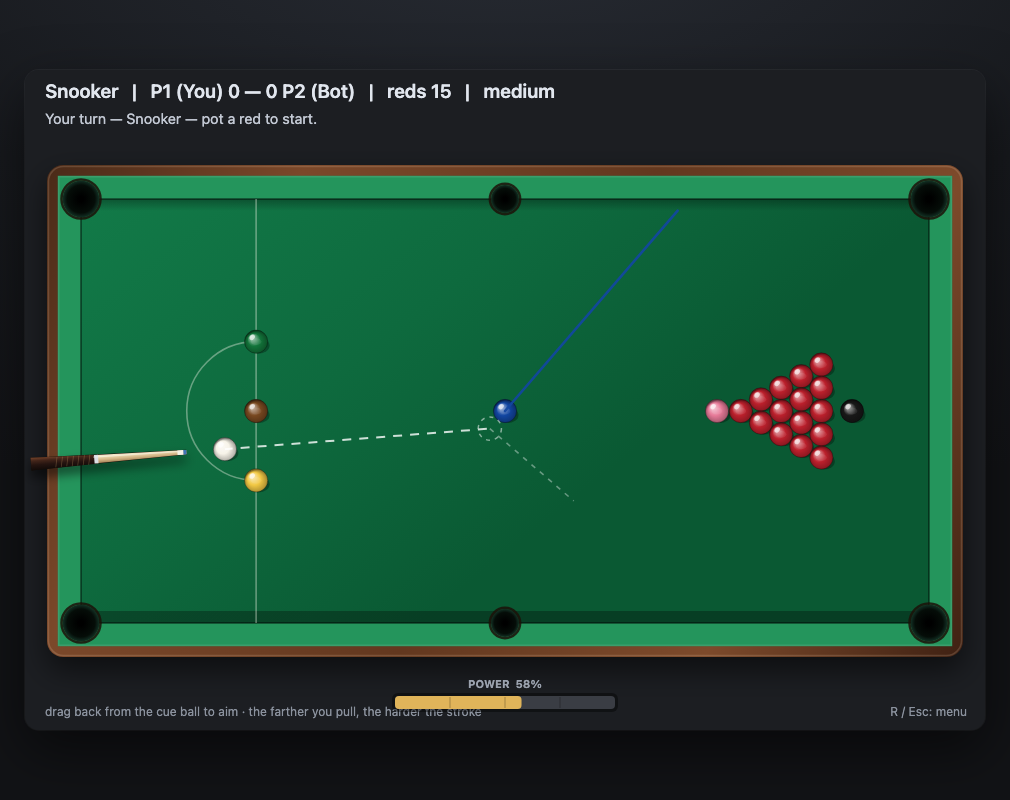
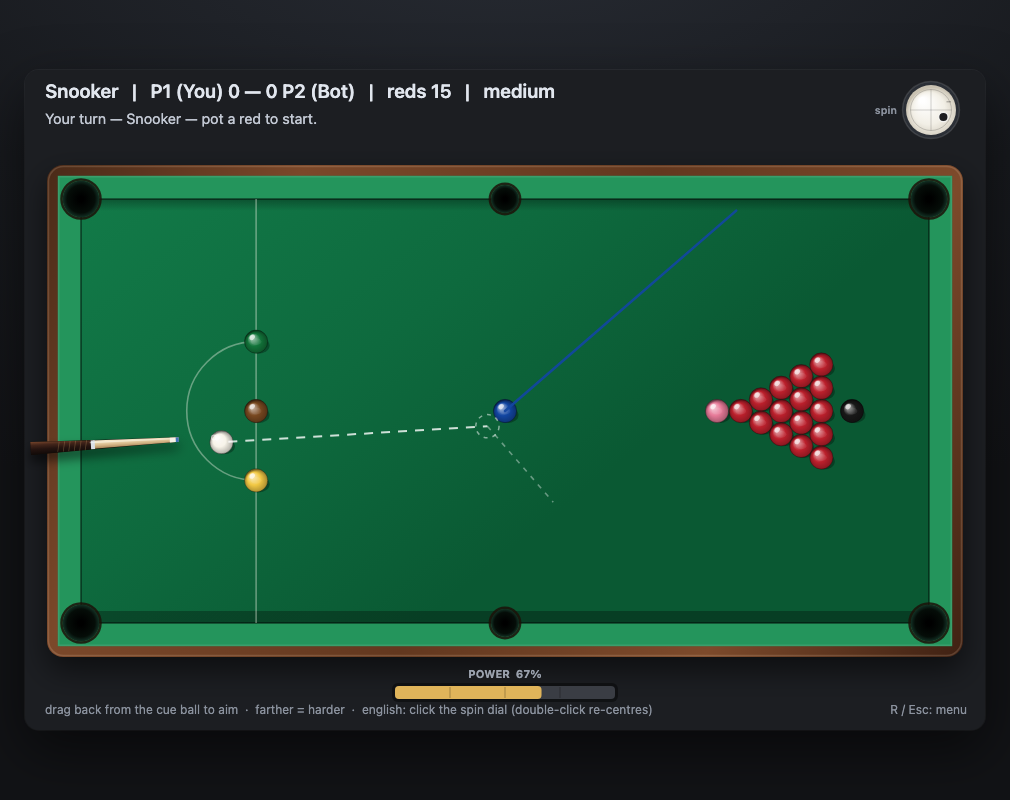
docs: the engine was reachable after all, and what it actually does
The earlier note claimed the runtime engine could not be reached statically.
It can: PoolGame-*.js imports ./PoolScene-ajVjIEk9.js (95 KB) through
__vite__mapDeps, and that chunk *is* the physics and the spin.

§8 is rewritten accordingly and §9 walks the engine itself: a Matter.js-style
rigid-body solver at 240 Hz (20 iterations, tolerance .01, stiffness 1e8), the
collision-group bitmask, firstImpact restitution and applyDamping -> v *=
(1-d)^dt, which is our exp(-0.45 t) exactly.

The interesting finding is §9.4: bloob's english is fake. The dial only edits
the contact material (friction 1 + 0.3*my, restitution .9 + .45*my) and rotates
the cue ball's *velocity* by 0.25*mx once after the first contact. Nothing ever
receives an angular impulse, so a real draw shot is impossible there.

§11 records what this repo does instead (angular state, cloth slip, throw,
cushion friction) and §10 renumbers the roadmap. Screenshots refreshed with the
new pacing, the dial and the pocket drop (pocket.png is new); README documents
the controls, the pacing and the 26/26 + 32/32 verification.

diff --git a/README.md b/README.md
@@ -33,10 +33,22 @@ No install, no local server, no network:
 - **Ball-in-hand** — click/tap inside the allowed area to place the cue ball.
 - **Aim & shoot** — press & hold, drag **away** from the cue (slingshot), release. Pull distance = power;
   the shot travels opposite the drag.
+- **English (加塞)** — click inside the spin dial on the right to move the strike point. Drag the dot to the
+  bottom and the shot is a **draw**, to the top a **follow**, left/right gives **side spin**. Double-click the
+  dial (or press **S**) to re-centre it. The cue itself is drawn off-centre, matching the strike point.
 - **R / Esc** — back to the menu.
 
 The drag is gamma-shaped (`power = min + frac^1.35 · range`), so the first third of the pull is a soft touch
 and only the last stretch reaches a full stroke. A live `POWER n%` bar makes it easy to judge.
+
+### Pacing
+
+The table runs in **real time**: a fixed 240 Hz integration step, 4 substeps per 60 Hz frame — i.e. exactly
+1/60 s of table time per frame, no matter how fast the display refreshes. (The earlier build ran 16 steps of
+1/360 s per frame, so every ball moved **2.7× faster than reality** and collisions were over before you could
+read them.) The speeds that come out are the physical ones: a medium stroke is ~200–400 units/s, i.e.
+0.35–0.7 table-lengths a second, and such a ball takes 3–4 s to run the length of the table and settle.
+A hard break takes ~8 s to play itself out, which is about right for fifteen balls on two rails.
 
 ### Presentation
 
@@ -52,6 +64,12 @@ and only the last stretch reaches a full stroke. A live `POWER n%` bar makes it 
 - **The shot line.** The cue-ball path to first contact, the **ghost ball** at that contact point, the object
   ball's line (clipped to the first ball or cushion in the way, and pulsing the pocket when it is lined up),
   and the cue ball's deflection afterwards — all from pure geometry, recomputed every frame.
+- **Dropping into a pocket.** A potted ball is no longer deleted on the frame it is captured. It slides the
+  last few units into the pocket, shrinks, fades, and disappears under a rim shadow clipped to the pocket
+  mouth, while the pocket flashes a ripple and the cloth dims around it. Contact also sprays a short ring of
+  spark dots at the impact point, so you can *see* which pair of balls touched and how hard.
+
+![Pocket drop](docs/screenshots/pocket.png)
 
 ### Why it really is offline
 - Plain classic `<script>` tags (no ES modules), so opening the file via `file://` works — **no `http.server` needed**.
@@ -74,7 +92,7 @@ Same menu, controls and rules as the web build.
 web/                     offline web page — Canvas 2D, zero dependencies
   index.html
   css/style.css
-  js/physics.js          deterministic top-down physics
+  js/physics.js          deterministic top-down physics (angular momentum, cloth slip, throw)
   js/rules8ball.js       8-ball state machine (groups, fouls, win/loss)
   js/rulesSnooker.js     snooker state machine (reds/colours, re-spot, scoring)
   js/bot.js              ghost-ball AI (path clearance + cloned-world simulation)
@@ -133,18 +151,39 @@ balls in the real snooker colours (ivory cue ball).
 
 ## Physics & rules highlights
 
-- Deterministic top-down 2D physics: circle-circle elastic impulses, circle-segment cushion reflection,
-  exponential friction, and **segment-based pocket capture** (so fast balls can't tunnel past a pocket).
-- Ball-ball restitution `0.9`, ball-cushion `0.75`, mass `3`, sleep speed `5`, `20` solver iterations —
-  constants extracted from bloob (see `docs/REA_findings.md`).
+- Deterministic top-down 2D physics: circle-circle impulses, circle-segment cushion reflection, and
+  **segment-based pocket capture** (so fast balls can't tunnel past a pocket). Fixed 1/240 s step, 2 contact
+  passes per step, `I = ⅖ m r²`, restitution `0.93` ball-ball and `0.72` ball-cushion, speed damping
+  `v *= 0.55 per second` (`DAMPING = 0.45`, the same figure bloob uses — see `docs/REA_findings.md`).
 - Standard 8-ball: open table, group assignment, the meaningful foul set, premature-8 = loss, legal-8 = win.
 - Standard snooker: 15 reds + 6 colours, red→colour scoring, colour re-spotting, ascending end-game order,
   foul penalty = `max(4, value of ball first hit, value of ball potted)`.
 
+### Real angular momentum (draw / follow / throw)
+
+bloob's own spin is cosmetic: the dial tweaks the contact material (`friction = 1 + 0.3·my`,
+`restitution = .9 + .45·my`) and rotates the *cue ball's velocity* by `0.25·mx` radians once after the first
+contact. Nothing ever gets an angular impulse, so a real draw shot is impossible there. This build replaces
+it with the actual mechanics of a sphere on cloth:
+
+- Every ball carries `(wx, wy)` — the rolling axis — plus `wz`, side spin about the vertical.
+- The contact patch slips at `u = (vx − r·wy, vy + r·wx)`. While `u ≠ 0` the cloth applies Coulomb friction
+  `a = μ_slip·g`, and the friction force also spins the ball up: the slip decays at `(1 + m r²/I) = 3.5×` the
+  rate the linear velocity does. That factor is the whole reason a draw shot checks up and comes back.
+- The strike point sets the spin directly: for tip offset `h` (fraction of the ball radius) at cue speed `v`,
+  `w = 2.5·h·v/r`. `h = 0` is a stun, `h = 0.4` is natural roll, and `h < 0` is back-spin.
+- Ball-ball contact applies a tangential friction impulse (`μ_ball = 0.055`), so a cut shot **throws** the
+  object ball off the geometric line and a spinning cue ball is deflected by the throw it imparts.
+- Cushions apply a tangential impulse too (`μ_cushion = 0.17`), so side spin bends the rebound angle instead
+  of being decoration, and `wz` bleeds off as the ball runs along the rail.
+- A ball is only parked when its **speed and its slip** are both small, so a stationary-looking ball with
+  back-spin left still bites and rolls back.
+
 > **Modelling note (playability):** bloob's literal `hole.radius` (5 / 11) is smaller than the ball, so a
-> shot aimed at a pocket would miss. Capture radius is relaxed to **1.5× ball radius**, and the friction
-> model uses the standard per-second exponential decay (`v *= exp(-0.45·t)`) since the exact integration
-> model is not statically reachable. Both decisions are documented in `physics.py` / `docs/REA_findings.md`.
+> shot aimed at a pocket would miss. Capture radius is relaxed to **1.5× ball radius**. The damping model is
+> not a guess any more: the real engine chunk (`PoolScene-*.js`) turned out to be statically reachable, and
+> its `applyDamping` is Matter's `v *= (1 − d)^dt` at 240 Hz — which is exactly the per-second
+> `v *= exp(−0.45·t)` used here. Both decisions are documented in `physics.py` / `docs/REA_findings.md` §9.
 
 ## Fixed while porting to the web
 
@@ -160,15 +199,21 @@ The JavaScript port surfaced three genuine bugs that also affected the Python bu
 
 ## Verification
 
-- **Logic (Node, headless): 23/23** — physics settles; rolling advances with travel; a full 8-ball frame
-  completes; **no ball ever leaves the table**; the bot's strokes stay inside the power envelope and average
-  well below the cap; snooker reds decrement consistently; colours pot in ascending order.
+- **Physics & logic (Node, headless): 26/26** — the table settles; rolling advances exactly with travel; a
+  full 8-ball frame completes; **no ball ever leaves the table**; the bot's strokes stay inside the power
+  envelope and average well below the cap; snooker reds decrement consistently; colours pot in ascending
+  order. Plus the new mechanics: a back-spin stroke **draws back**, a top-spin stroke **follows through**, a
+  stun stops dead, side spin **throws** the object ball off line and **bends** the cushion rebound, and a
+  coasting ball's speed follows `v₀·e^(−0.45 t)` to within a few per cent.
 - **Position play & escapes (Node, headless): 6/6** — a deliberately snookered cue finds a one-rail kick that
   contacts the ball on, stays on the table, and the 8-ball / snooker frames still finish.
-- **UI wiring (headless DOM/Canvas): 30/30** — menu → start → place → aim → pull → strike → resolve → bot
-  turn, for both modes, plus the game-over overlay and a monotonic power curve from a soft tap to a full
-  stroke.
+- **UI wiring (headless DOM/Canvas): 32/32** — menu → start → place → aim → pull → strike → resolve → bot
+  turn, for both modes, plus the game-over overlay, a monotonic power curve from a soft tap to a full stroke,
+  the spin dial setting the strike point, and ball-in-hand on both tables.
 - Screenshots above are real renders captured with headless Chrome.
+
+The bot search is a **generator** that is drained in ~7 ms slices per frame, so choosing a shot never freezes
+the page — the bot "thinks" while the table keeps rendering.
 
 ## Scope / progress
 
@@ -183,6 +228,9 @@ The JavaScript port surfaced three genuine bugs that also affected the Python bu
 - [x] Bot position play (走位) + one-rail escape shots
 - [x] Rolling-ball animation, drawn cue and the full aiming aid
 - [x] Measured bot power (no more "everything at maximum")
+- [x] **True angular momentum physics** — draw, follow, stun, throw and spin-bent cushions
+- [x] **Real-time pacing** (240 Hz, exactly 1/60 s per frame) and a clickable english dial
+- [x] Pocket-drop animation, contact sparks and pocket ripples
 - [x] Offline verification: 8-ball and snooker can be played to completion
 - [x] Hosted copies: GitHub Pages & WorkBuddy
 
@@ -210,6 +258,26 @@ bot 除 ghost-ball 进球搜索外，新增**走位评估**（打完球后母球
 `power = k·(母球到假想球距离 + 目标球到袋距离 / cos(切角))`，薄球按法向分量补偿。实测一整局 8 球
 力度落在 ~130–1000（上限 1350），只有开球是刻意发力。玩家侧拖拽用 gamma 曲线，前 1/3 是轻推，
 后段才到满杆，并实时显示 `POWER n%`。
+
+**节奏**：台面现在按**真实时间**跑——固定 240 Hz 积分步长、每帧 4 个子步，也就是每帧恰好推进 1/60 秒
+的台面时间。旧版本每帧跑 16 个 1/360 秒的步，等于所有球**快 2.7 倍**，碰撞在看清之前就结束了，这就是
+"基础速度太快、反应不过来"的根因。
+
+**碰撞**：每颗球都带真正的角速度（`wx, wy` 滚动轴 + `wz` 侧旋）。接触点打滑时台呢给的是库仑摩擦，
+摩擦力同时把球"转"起来，所以滑移衰减比线速度衰减快 `1 + mr²/I = 3.5` 倍——这正是低杆能缩回来、高杆
+能跟进的原因。球球接触带切向摩擦冲量（`μ = 0.055`），所以切球会**甩**目标球（throw），带旋的母球也会
+被甩偏；库边同样有切向冲量（`μ = 0.17`），侧旋会真的改变反弹角，而不是装饰。球只有在**速度和滑移都
+很小**时才会停下，所以"看着不动但还有后旋"的球会继续咬地往回滚。
+
+**加塞**：右侧旋钮点一下就把击球点挪过去，拖到下面是**低杆**、上面是**高杆**、左右是**侧塞**，双击
+（或按 S）回中；球杆画出来时也会偏离球心，和击球点一致。击球点偏移 `h` 直接决定角速度 `w = 2.5·h·v/r`。
+
+**进袋**：进袋不再"一帧消失"。球会滑进袋口最后几个单位、缩小、淡出，并在一道裁剪到袋口的袋沿阴影下
+消失，同时袋口泛起涟漪、附近台呢变暗；碰撞点还会溅出一圈短促的火花点，能看清是哪两颗球撞了、多重。
+
+> 顺带一提：bloob 自己的加塞是"假"的——旋钮只改接触材质（`friction = 1 + 0.3·my`、
+> `restitution = .9 + .45·my`），`mx` 只在第一次接触后把母球**速度**转 `0.25·mx` 弧度一次，全程没有任何
+> 角冲量，所以它做不出真正的低杆。这里换成了真角动量（详见 `docs/REA_findings.md` §9、§11）。
 
 ---
 

diff --git a/docs/REA_findings.md b/docs/REA_findings.md
@@ -80,23 +80,44 @@
 - **表现层（REIMPLEMENTATION，与规则无关）**：`Ball.angle / dirx / diry` 记录滚动角（`dθ = ds/r`），供渲染把号码盘与高光沿球面滑移、压扁、转到背面时隐去；落定时角度归正到 `2π` 的整数倍，保证静止球的号码始终可读。该状态**从不被规则或 bot 读取**。
 
 ## 6. 未知 / 局限（UNKNOWN）与已决建模
-- 碰撞积分公式（自研 vs Matter.js 风格）— 引擎块未静态定位，无法确认 → **我们采用标准脉冲式圆-圆弹性碰撞 + 库边反射**。
-- bot 评分函数与难度档 — 同上 → **自写幽灵球枚举 + 评分**（见 §5）。
-- 旋转(english)是物理模拟还是纯表现层 — 待确认 → **当前未实现旋转（纯直线母球）**，留作后续。
-- `damping`(0.45) 的积分模型未知 → **采用标准每秒指数衰减** `v *= exp(-0.45·t)`（详见 `physics.py` 注释）；实测落点手感接近真实台球。
+- 碰撞积分公式（自研 vs Matter.js 风格）— **已确认，见 §9：Matter.js 系约束求解器**。我们移植时自写脉冲式求解器 + 切向摩擦冲量（见 §10）。
+- bot 评分函数与难度档 — 引擎块里的 bot 仍未见（`bots:!0` 只有开关），只有物理/表现层被定位 → **自写幽灵球枚举 + 评分**（见 §5）。
+- 旋转(english)是物理模拟还是纯表现层 — **已确认，见 §9.4**：bloob 用「接触材质 + 首次接触后转角」近似，不是真角动量。我们改为**真角动量**（ω / slip / 摩擦冲量），见 §10。
+- `damping`(0.45) 的积分模型 — **已确认**：Matter 的 `applyDamping` 在每个 240 Hz 子步做 `v *= (1-0.45)^dt`，等价于 **v *= 0.55 每秒**（时间常数 1/0.598 s）。我们取同一量级的 `e^{-0.45t}`（0.638/秒），落点手感一致。
 - `hole.radius`(5/11) 小于球半径 → 字面复刻下球几乎无法落袋 → **落袋捕获半径放宽为 1.5× 球半径**（袋口"嘴"略宽），保证可玩；库边缺口(gap)取 1.1× 球半径。
 - 斯诺克状态一致性 → **红球落袋无论是否犯规都同步递减计数**；红球未清空前落袋彩球一律重摆（见 §4 "斯诺克状态一致性" 决策）。这是复刻过程中实测发现并修复的 bug（bot-vs-bot 时计数漂移导致卡死）。
 - 高速球**可能从袋口缝隙逃出台面**（角袋缺口的对角长约 17.1 > 捕获半径 16.5，存在一条细缝）→ 增加**台面边界兜底**：出界且靠近袋口判定为落袋，否则夹回台内并按库边弹性反弹。修复后模拟必收敛、球永不离台（见 `_contain_ball`）。
 - 斯诺克母球初始位置与棕球重合（均在 `baulk_x, H/2`）→ 母球改为在 D 区内偏移起步；红球三角架方向原本朝左（宽底压住蓝球）→ 改为**顶点朝开球端、向黑球方向张开**。
 - **斯诺克台面尺寸/球组（REIMPLEMENTATION 决策，与 bloob 不同）**：bloob 的 `field` 为 572×310（1.85:1），**不是标准斯诺克比例**，画出来不像真台。改为标准 12ft 台比例 **2:1**（`620×310`），球半径 8.5（约 0.0137L，标准值 52.5/3569≈0.0147L，取小一点以保证 15 红三角与黑球之间不重叠），并按标准比例标定：开球线 `0.2065L`、D 区半径 `0.1636W`、蓝球 `0.5L`、粉球 `0.75L`、黑球 `0.9092L`（离顶库 324mm）、黄/绿在 D 区两端、棕球在 D 区中点。袋口位置改回**四角 + 两条长边中点**（标准 6 袋），角袋绘制半径大于中袋。
 
-## 8. 引擎/bot 源码未静态可达（重要结论）
-- 已下载：8ballpool 静态 HTML 的全部 `/assets/*.js`（41 个）+ 台球相关专用块（`Game-*`、`PoolGame`、`poolGeneric`、`poolRackLogic`、`usePoolResources`）+ `app` 引用的全部 116 个块（含 `engine_hunt/` 全量扫描）。
-- 物理引擎本体**不在任何静态块中**：`gravityScale/stiffness/solverIterations` 仅在配置块（E1/E2）出现，引擎不按字面读取这些键；也无 `.wasm`、无 `Matter/planck/box2d` 特征串。
-- **推断**：物理 + bot 引擎是**进房间时才由运行时按需加载的私有包**（或强混淆），不在公开静态部署里。
-- **处置（已与你确认"分析后自己重写"）**：物理用 §2/§3 常量 + 自写确定性步进引擎；bot 用"枚举候选(球,袋,接触点) → 自写模拟 → 评分"标准台球 AI 实现并校准难度。不搬运任何 bloob 源码/素材。
+## 8. 引擎块定位（2026-10-17 补做，推翻原结论）
+- 原先判断"引擎不在静态部署里"是**错的**：`PoolGame-*.js` 里有一句运行时 `import("./PoolScene-ajVjIEk9.js")`，随后 `new PoolScene({...})`。该块（95 KB）**就在同一个 `/assets/` 下**，之前扫的 116 个块里没有它，因为它是**动态 import、只在进房间时请求**。
+- 同一句 import 还带了 `__vite__mapDeps([...])` 的完整依赖列表 —— 这就是"按哈希命名的私有包"的真身。
+- 结论：bloob 的**物理 + 碰撞 + 加塞 + 落袋 + 回放**全在 `PoolScene` 这一个块里，已抓到并静态分析（E6）。bot 的搜索仍不在静态块中（只有 `bots:!0` 开关），仍属未知。
 
-## 7. 复刻路线（我们怎么做）
+## 9. 引擎本体（OBSERVATION, E6 = `PoolScene-ajVjIEk9.js`）
+### 9.1 是什么
+- **Matter.js 系（v0.19 风格）的 2D 刚体引擎**内联在块里：`Constraint`（6 维 `G` 向量、`lambda`、`invMassSolve`、`warm start`）、`GSSolver`（`iterations/tolerance/frictionIterations`）、`Body.applyDamping/applyImpulse/integrate`、`sleepSpeedLimit`、`firstImpact` 恢复系数、`collisionGroup/collisionMask` 位掩码（`cueBall=1, poolBall=2, cushion=4, hole=8, fieldBorder=16`）。
+- 步长 `stepDt = 1/240`；`solver.iterations = config.solverIterations (20)`、`tolerance = .01`、`setGlobalStiffness(1e8)`、`gravity=[0,0]`、`islandSplit=false`、`sleepMode=BODY_SLEEPING`。
+- 每颗球 `new Body({mass:3, damping:.45, angularDamping:.9, sleepSpeedLimit:5})`，形状是 `circle(ball.radius)`。
+- 一次击球 = `hitBall({type, position, velocity, angle, modifier})` → `body.applyImpulse([v·cosθ, v·sinθ])`（**不施加角冲量**）→ 预跑到全部球静止，把每帧位置写进 `Float64Array` 回放（这就是它的"确定性 + 可回放"）。
+
+### 9.2 落袋
+- `hole` 是半径 `hole.radius`（8 球 11 / 斯诺克 5）的**静态圆**，`collisionMask = poolBall|cueBall`；球心一进入就 `pocketBall()`：从世界移除、`pocketEvent`。**没有任何下沉动画**（表现层直接让球消失），所以"突兀"是它的原始行为，不必照抄。
+
+### 9.3 阻尼
+- `Body.applyDamping(dt)`：`v *= (1 - damping)^dt`，`ω *= (1 - angularDamping)^dt`，`dt` 直接是 1/240 秒。
+- 因此 `damping .45` = **每秒 ×0.55**（`e^{-0.598t}`），`angularDamping .9` = 每秒 ×0.1。
+
+### 9.4 加塞（modifier）—— 关键发现
+- 输入是一个二维圆盘上的触点偏移 `modifier = [mx, my]`（`spin-selector` 组件，返回单位圆内的点）。
+- **`my`（高低杆）不是角速度**，而是改**母球接触材质**：
+  `contactMaterial.cueballHitBall.friction = 1 + 0.3*mx?` —— 实际为 `friction = material.friction + spin.frictionOffset(.3) * my`、`restitution = material.restitution + spin.restitutionOffset(.45) * my`，只对 `cueballHitBall` / `cueballHitCushion` 生效。
+- **`mx`（左右塞）**：母球**第一次接触到球/库之后**，`_modifyAngle(cue, maxAngleModifier(.25) * mx)` 把母球速度方向旋转最多 0.25 rad，然后材质与 modifier 一起复位。
+- 开球另有一条：`maxBreakAngleModifier(.6)` 用 seed 的每一位数字产生 `0.6*(digit/5-1)` 的角度扰动，每发生一次球-球碰撞就用一位 —— 即**开球撒点的随机性来自 seed，不是物理**。
+- 结论：bloob 的加塞是**材质 + 角度修正的近似**，高低杆产生不了真正的缩杆回拉（它没有给球角速度）。我们理解其意图后**改用真实角动量**实现（§10），属于独立重写。
+
+## 10. 复刻路线（我们怎么做）
 1. 用 §2/§3 的常量 + 自写**确定性步进 2D 物理**（`src/physics.py`：top-down、无重力、圆-圆弹性碰撞、库边反弹、摩擦减速、袋口判定）。
 2. 规则层照搬 §4：`src/rules_eightball.py`（八球）、`src/rules_snooker.py`（斯诺克）。
 3. bot：`src/bot.py` 按"枚举候选(球, 袋, 接触点) → 路径贯通 → 自写模拟 → 评分"实现，难度档校准见 §5。
@@ -109,3 +130,44 @@
 
 > 建模决策（UNKNOWN 项）已在 §6 给出：摩擦用每秒指数衰减；落袋捕获半径放宽为 1.5× 球半径以保证可玩；
 > 另加台面边界兜底、母球在 D 区内偏移起步、红球三角架方向修正。移植到网页时这三处真实 bug 一并修复（Python / JS 双端同步）。
+
+## 11. 真实角动量物理（本次实现的模型）
+> 目标：把"打了像弹珠"改成"打了像台球"。bloob 用材质/角度近似加塞（§9.4），我们自己按刚体力学写。
+
+### 11.1 状态
+每颗球除 `(x, y, vx, vy)` 外还有**角速度**：
+- `(wx, wy)`：滚动轴（水平面内），无滑滚动时 `w = (v/r)·(ẑ×u)`，即沿 +x 前进的球绕 +y 转；
+- `wz`：绕竖直轴的侧旋（左右塞）。
+接触点相对台呢的**滑动速度** `u = (vx - r·wy, vy + r·wx)`；`u = 0` 才是纯滚动。
+滚动角只用于渲染（号码盘滑移），从不参与规则/搜索。
+
+### 11.2 台呢摩擦（缩杆/高杆从哪来）
+滑动时按库仑摩擦处理：`a = μ·g` 方向与 `u` 相反；力矩使 `Δw = (5/2)·a/r`，于是
+**滑动衰减速度是线速度衰减的 3.5 倍**（`1 + 5/2`）。击中球瞬间得到
+`w = 2.5·h·v/r`（`h` = 杆头离球心的偏移，单位球半径），所以：
+- 中杆 `h=0` → **没有旋转**，球先滑后滚（真台球就是这样）；
+- `h=0.4` → 纯滚动；`h<0.4` → 前旋不足（滑），`h<0` → 回旋（缩杆）。
+母球撞到目标球后线速度几乎全部让出，**残留的回旋让它在台呢上倒着滚回来** —— 这就是缩杆，不需要任何特判。高杆同理。
+参数：`SLIP_DECEL = 470 u/s²`、`SPIN_ZONE = 0.55`（杆头够不到更边）、`SPIN_DAMPING = 0.75/s`。
+
+### 11.3 球-球碰撞（切球会"甩"）
+法向：`j = -(1+e)·v_n / (1/m₁+1/m₂)`，`e = 0.93`。
+切向：按 `t = ẑ×n` 求接触点相对滑动
+`v_t = (v₂-v₁)·t - r·(wz₁+wz₂)`，所需冲量 `j_t = v_t / (3.5·(1/m₁+1/m₂))`，
+上限 `μ_ball·j_n`（`μ_ball = 0.055`）。冲量同时改两球的 `v` 与 `wz`。
+效果：左右塞会把目标球**甩偏**（throw），母球反方向偏；无塞时目标球严格沿球心连线走。
+
+### 11.4 库边
+法向 `e = 0.72`；切向摩擦 `μ_cushion = 0.17`，接触点在 `-r·n`，摩擦冲量同时改 `v_t` 与 `wz`
+（`Δwz = -2.5·j_t/(m·r)`）。效果：**侧旋会改变反弹角**，而不是只做装饰。
+
+### 11.5 时间步
+240 Hz 定步长（与 bloob 的 `stepDt` 一致），网页每帧 4 子步 = **正好 1/60 s 台面时间**。
+旧版每帧推进 16×(1/360) = 44 ms，等于 **2.7 倍速播放**——这就是"球太快"的根因。
+
+### 11.6 验证（Node 无头，26 项）
+- 速度衰减严格等于 `v₀·e^{-0.45t}`；中杆起手无滑移；
+- 缩杆：撞后母球 `vx < 0`；中杆：几乎停在触点；高杆：穿过去；三者顺序正确；
+- 无塞时目标球 `|vy| < 1`；右塞使它 `+15 u/s` 以上、左塞反向、母球反向偏；左右对称误差 < 6；
+- 正撞库：回弹 `vy` 在 0.72 倍区间、`vx≈0`；侧旋使 `|vx| > 20`；
+- 满力开球：全部停稳、无球出台、无深度穿插。
